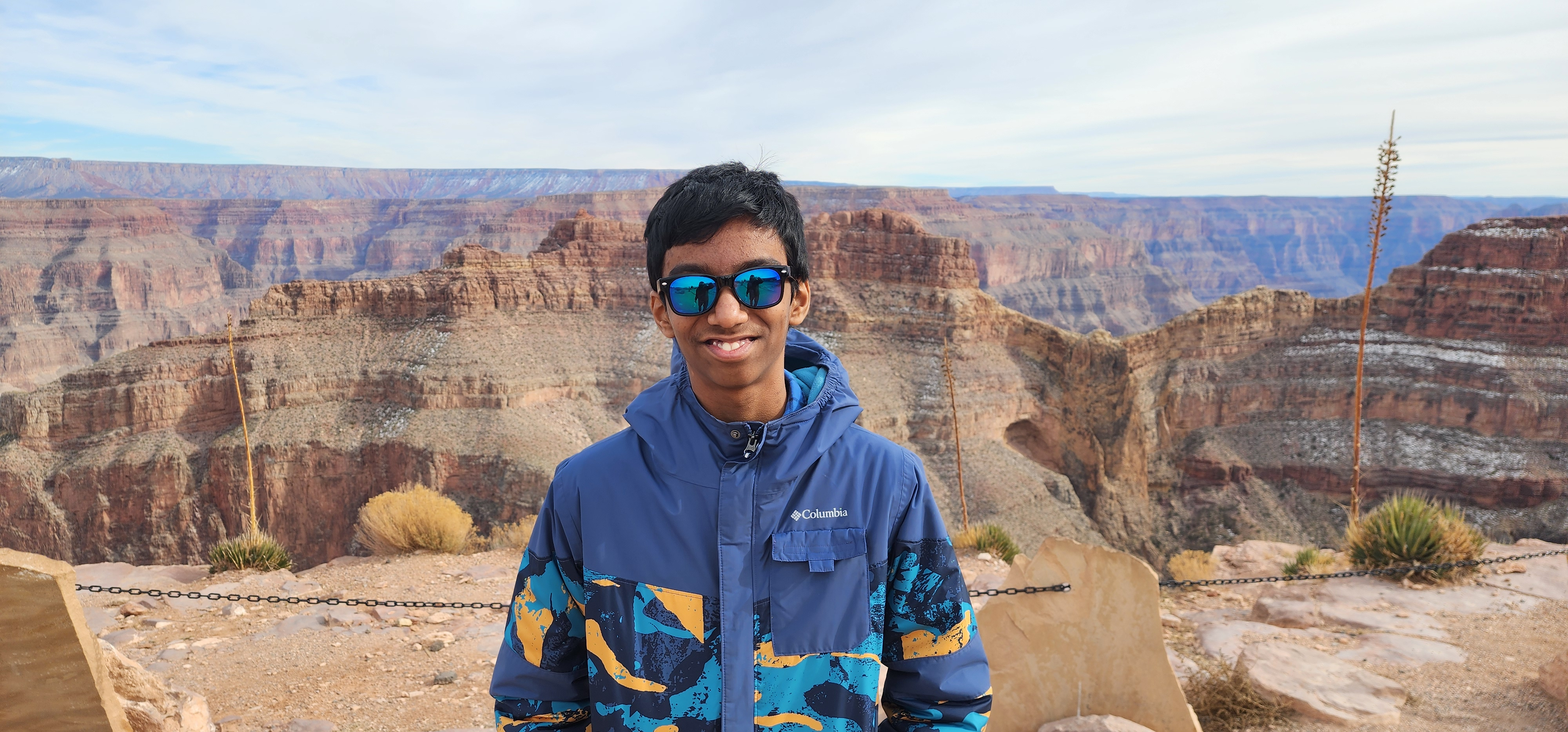
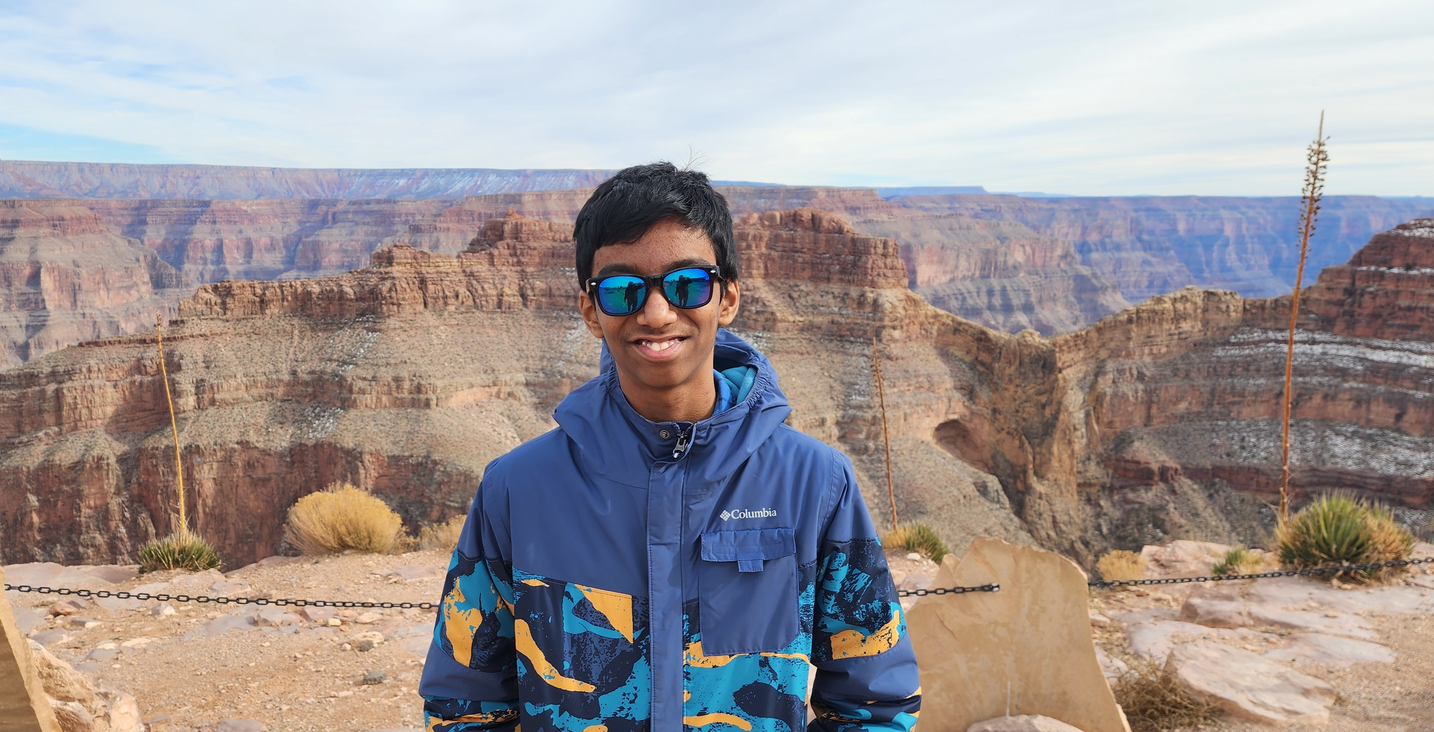
Fix hero section, update Arham's role, improve navigation, and remove blue backgrounds

diff --git a/styles.css b/styles.css
@@ -106,6 +106,7 @@ body {
     color: var(--white);
     padding: 120px 0 60px;
     text-align: center;
+    position: relative;
 }
 
 .hero::before {
@@ -115,7 +116,7 @@ body {
     left: 0;
     right: 0;
     bottom: 0;
-    background: linear-gradient(rgba(30, 58, 138, 0.8), rgba(30, 58, 138, 0.8));
+    background: linear-gradient(rgba(0, 0, 0, 0.6), rgba(0, 0, 0, 0.6));
     z-index: 1;
 }
 
@@ -123,7 +124,8 @@ body {
     position: relative;
     z-index: 2;
     max-width: 800px;
-    padding: 0 2rem;
+    margin: 0 auto;
+    padding: 0 20px;
 }
 
 .hero h1 {
@@ -423,21 +425,37 @@ body {
 
 /* Programs Page Styles */
 .programs-hero {
-    background: linear-gradient(135deg, #2c3e50, #3498db);
-    color: white;
+    background: linear-gradient(135deg, var(--primary-color), var(--secondary-color));
+    color: var(--white);
     padding: 80px 0;
     text-align: center;
+    position: relative;
+}
+
+.programs-hero::before {
+    content: '';
+    position: absolute;
+    top: 0;
+    left: 0;
+    right: 0;
+    bottom: 0;
+    background: linear-gradient(rgba(0, 0, 0, 0.6), rgba(0, 0, 0, 0.6));
+    z-index: 1;
+}
+
+.programs-hero .container {
+    position: relative;
+    z-index: 2;
 }
 
 .programs-hero h1 {
     font-size: 3rem;
-    margin-bottom: 20px;
+    margin-bottom: 1rem;
 }
 
 .programs-hero p {
     font-size: 1.2rem;
-    max-width: 800px;
-    margin: 0 auto;
+    opacity: 0.9;
 }
 
 .program-section {
@@ -510,8 +528,10 @@ body {
         display: flex;
     }
 
-    .nav-links li {
-        margin: 1rem 0;
+    .nav-links a {
+        width: 100%;
+        text-align: center;
+        padding: 1rem;
     }
 
     .hero h1 {
@@ -838,10 +858,27 @@ ul {
 
 /* About Page Styles */
 .about-hero {
-    background: linear-gradient(135deg, #2c3e50, #3498db);
-    color: white;
+    background: linear-gradient(135deg, var(--primary-color), var(--secondary-color));
+    color: var(--white);
     padding: 100px 0 60px;
     text-align: center;
+    position: relative;
+}
+
+.about-hero::before {
+    content: '';
+    position: absolute;
+    top: 0;
+    left: 0;
+    right: 0;
+    bottom: 0;
+    background: linear-gradient(rgba(0, 0, 0, 0.6), rgba(0, 0, 0, 0.6));
+    z-index: 1;
+}
+
+.about-hero .container {
+    position: relative;
+    z-index: 2;
 }
 
 .about-hero h1 {

diff --git a/about.html b/about.html
@@ -64,11 +64,11 @@
                 </div>
                 <div class="team-member">
                     <div class="member-image">
-                        <img src="images/arham.jpg" alt="Arham Shah">
+                        <img src="images/arham.png" alt="Arham Shah">
                     </div>
                     <h3>Arham Shah</h3>
-                    <p class="role">Team Member</p>
-                    <p>Arham Shah is very passionate about sports and academics. He is a student and is very high achieving, winning multiple medals in the Science Olympiad and HOSA, and also many awards in soccer. Alongside his great grades and extracurriculars, he is very interested in arts and crafts. He has lots of experience with it, as in the Science Olympiad, there was an event called Roller Coaster, and a variation of an event called Mission Possible. In those events, they include many skills to build, such as creative thinking, sequential thinking, and more. Arham is very energetic and strives to never give up on anything, no matter how hard it is.</p>
+                    <p class="role">Co-Founder</p>
+                    <p>Accomplished student with achievements in Science Olympiad and soccer. Passionate about creative learning and helping others succeed.</p>
                 </div>
             </div>
         </div>
